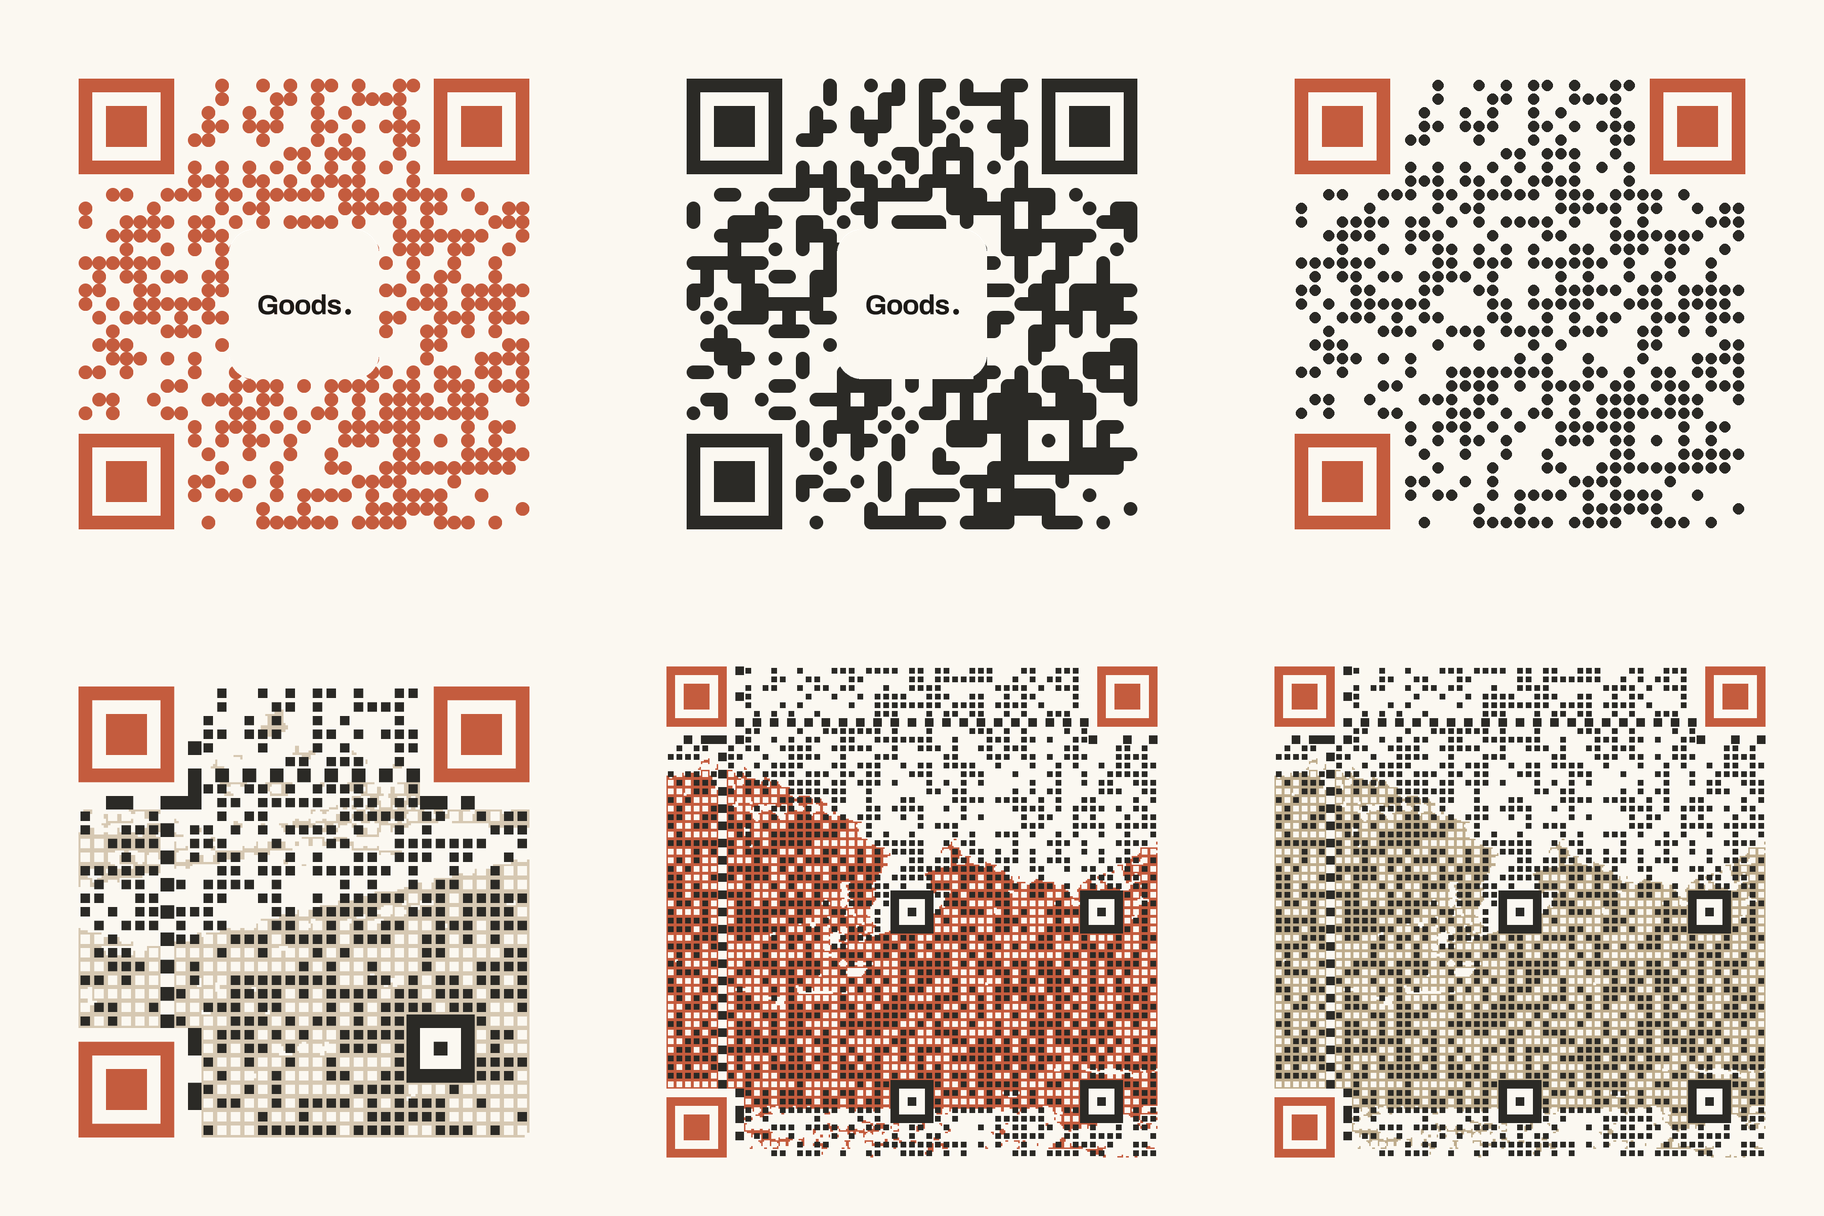
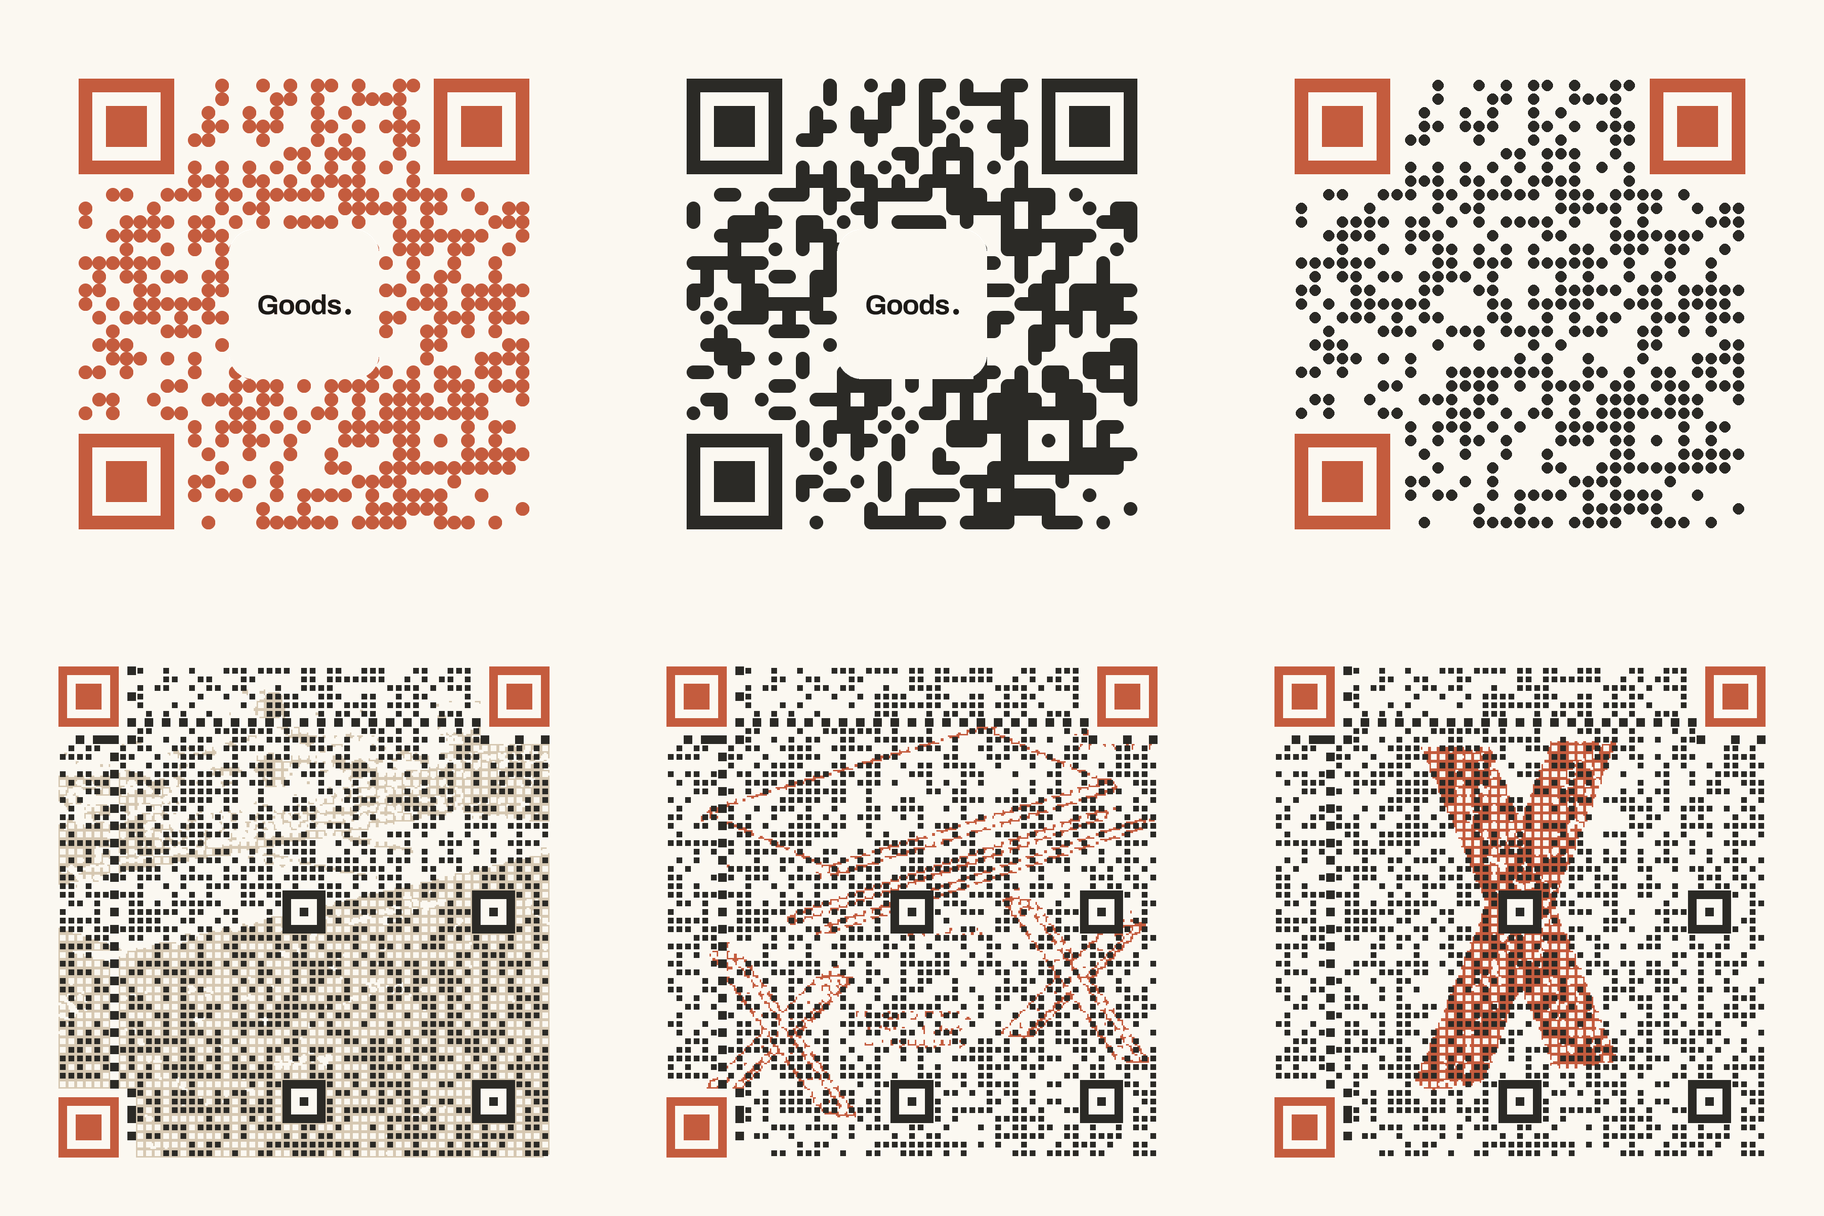
Canvas print: illustration and leg halftone QR variants, contact sheet rebuilt
Claude-Session: https://claude.ai/code/session_01F1bLtuknD7hHaWGiEpJVCc

Changed region(s): [[0.0312, 0.5312, 0.3125, 0.9688], [0.3438, 0.625, 0.6562, 0.9375], [0.6875, 0.5938, 0.9688, 0.9375]]

diff --git a/design/brand/kit/canvas-print/v10b.py b/design/brand/kit/canvas-print/v10b.py
@@ -1,0 +1,4 @@
+exec(open('qr/v10.py').read().split('halftone("qr-09')[0])
+halftone("qr-12-halftone-illustration-v10","qr/ill.jpg", core=0.7, thresh=110, tone=(196,92,62), sub=8)
+halftone("qr-13-halftone-leg-v10","qr/leg.jpg", core=0.7, thresh=100, tone=(196,92,62), sub=8)
+for nm in ["qr-12-halftone-illustration-v10","qr-13-halftone-leg-v10"]: print(nm, decode(f"qr/{nm}.png", widths=(1600,900,520)))
